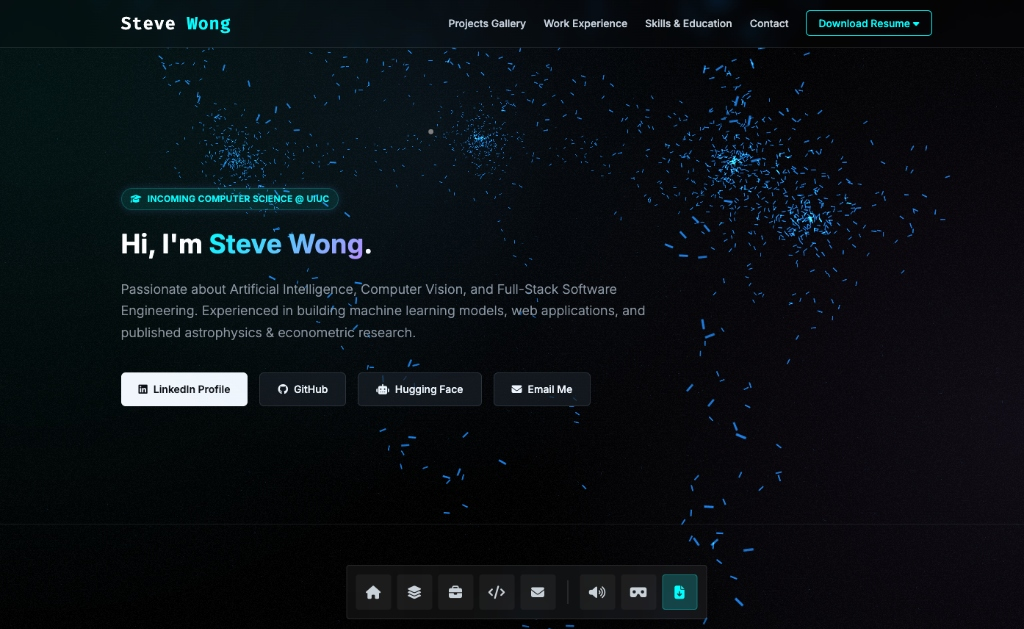
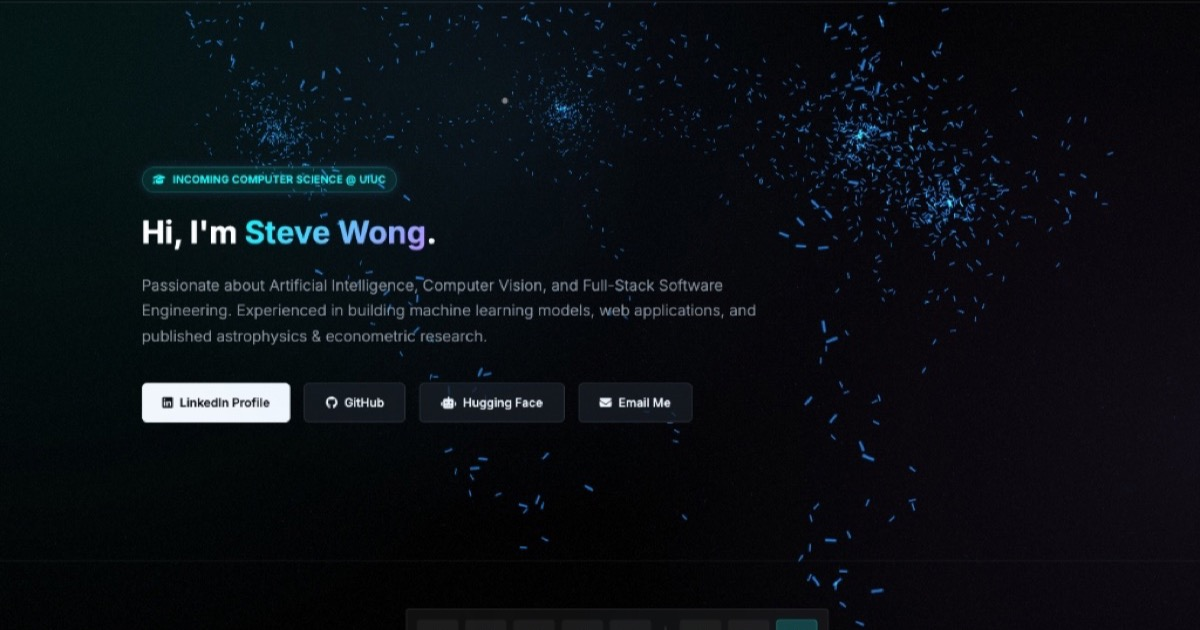
feat: update site metadata description and configure OpenGraph image dimensions

diff --git a/src/app/layout.js b/src/app/layout.js
@@ -3,10 +3,17 @@ import { Analytics } from "@vercel/analytics/react";
 
 export const metadata = {
   title: "Steve Wong | Software Engineer & AI Researcher",
-  description: "Portfolio of Steve Wong, incoming UIUC Computer Engineering student specializing in full-stack development, computer vision, and data science.",
+  description: "Portfolio of Steve Wong, UIUC Computer Engineering student specializing in full-stack dev, computer vision, and AI.",
   openGraph: {
     type: "website",
-    images: ["/og-image.jpg"],
+    siteName: "Steve Wong Portfolio",
+    images: [
+      {
+        url: "/og-image.jpg",
+        width: 1200,
+        height: 630,
+      }
+    ],
   },
   twitter: {
     card: "summary_large_image",
